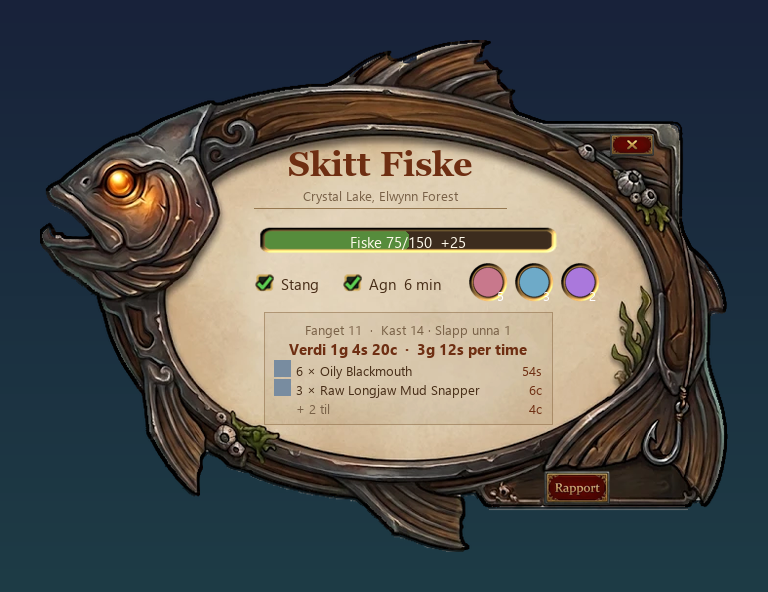
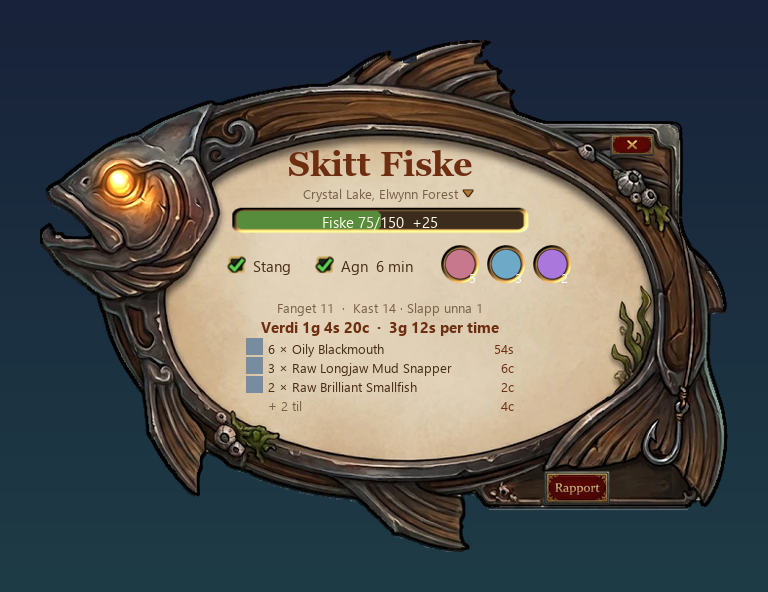
Eye glow centred on the eye, skill bar replaces divider, no box, all centred under title; zone dropdown with fish caught here

Changed region(s): [[0.2812, 0.3041, 0.7812, 0.6993], [0.0938, 0.2432, 0.2188, 0.3649]]

diff --git a/tools/render_media.py b/tools/render_media.py
@@ -17,12 +17,13 @@ SS = 2
 # Pergamentet i rammen er en oval: x 295–778, y 97–418 (tools/cut_frame.py). Treplata nede til høyre: x 605–800, y 433–462.
 LAYOUT = {
     "crop": (168, 856),
-    "title": 104, "zone": 146, "divider": 168,
-    "bar": (386, 186, 300, 28),
-    "line2": 232, "pole": 382, "lure": 470,
-    "rings": (596, 222, 40, 46),
-    "box": (392, 272, 288, 112),
-    "summary": 280, "value": 298, "rows": 320, "row_step": 19,
+    "title": 104, "zone": 144,
+    "bar": (358, 166, 300, 28),
+    "line2": 214, "pole": 354, "lure": 442,
+    "rings": (568, 204, 40, 46),
+    "list": (364, 288),
+    "summary": 258, "value": 276, "rows": 298, "row_step": 19,
+    "eye": (248, 141, 84),
     "report": (672, 431, 66, 34),
     "close": (738, 94, 44, 22),
 }
@@ -186,6 +187,16 @@ def font(names, size):
     return ImageFont.load_default()
 
 
+def render_arrow():
+    """Liten gullpil ned (nedtrekket fra området)."""
+    s = 32 * SS
+    m = arr(mask_img(s, s, lambda d: d.polygon(S([(6, 10), (26, 10), (16, 23)]), fill=255)))
+    out = np.zeros((s, s, 4), np.float32)
+    compose(out, np.zeros((s, s, 3), np.float32) + (60, 36, 16), np.clip(dilate(m, 2 * SS) - m, 0, 1))
+    compose(out, np.zeros((s, s, 3), np.float32) + (176, 120, 50), m)
+    save(out, "arrow_down.tga", (32, 32))
+
+
 def render_glow():
     """Myk, oransje glød til fiskeøyet (legges over med ADD i spillet): hvit kjerne, oransje ut mot kanten."""
     s = 128
@@ -233,7 +244,18 @@ def preview():
 
     ctext(508, L["title"], "Skitt Fiske", title, HEAD)
     ctext(508, L["zone"], "Crystal Lake, Elwynn Forest", small, (120, 96, 70))
-    d.line([P(382, L["divider"]), P(634, L["divider"])], fill=(150, 120, 80), width=1)
+    ex, ey, es = L["eye"]
+    glow = Image.open(os.path.join(OUT, "eye_glow.tga")).convert("RGBA").resize((es, es))
+    gl = Image.new("RGBA", img.size, (0, 0, 0, 0))
+    gl.alpha_composite(glow, tuple(int(v) for v in P(ex - es / 2, ey - es / 2)))
+    base = np.asarray(img).astype(np.float32)
+    add = np.asarray(gl).astype(np.float32)
+    base[..., :3] = np.clip(base[..., :3] + add[..., :3] * add[..., 3:] / 255.0, 0, 255)
+    img = Image.fromarray(base.astype(np.uint8), "RGBA")
+    d = ImageDraw.Draw(img)
+    aw = Image.open(os.path.join(OUT, "arrow_down.tga")).convert("RGBA").resize((14, 14))
+    zw = d.textlength("Crystal Lake, Elwynn Forest", font=small)
+    img.alpha_composite(aw, tuple(int(v) for v in P(508 + zw / 2 + 4, L["zone"] + 2)))
     bx, by, bw, bh = L["bar"]
     x, y = P(bx, by)
     d.rounded_rectangle([x + 4, y + 4, x + bw - 4, y + bh - 4], radius=6, fill=(60, 44, 30))
@@ -251,18 +273,14 @@ def preview():
         d.ellipse([x + 5, y + 5, x + rs - 5, y + rs - 5], fill=colr)
         img.alpha_composite(ring.resize((rs, rs)), (int(x), int(y)))
         d.text((x + rs - 11, y + rs - 16), str((5, 3, 2)[i]), font=small, fill=(255, 255, 255))
-    x0, y0, w, h = L["box"]
-    a, b = P(x0, y0), P(x0 + w, y0 + h)
-    ov = Image.new("RGBA", img.size, (0, 0, 0, 0))
-    ImageDraw.Draw(ov).rectangle([a, b], fill=(115, 82, 46, 20), outline=(140, 107, 69, 150))
-    img.alpha_composite(ov)
-    ctext(536, L["summary"], "Fanget 11  ·  Kast 14 · Slapp unna 1", small, (120, 96, 70))
-    ctext(536, L["value"], "Verdi 1g 4s 20c  ·  3g 12s per time", bold, HEAD)
-    for i, (t, v) in enumerate((("6 × Oily Blackmouth", "54s"), ("3 × Raw Longjaw Mud Snapper", "6c"), ("+ 2 til", "4c"))):
+    x0, w = L["list"]
+    ctext(508, L["summary"], "Fanget 11  ·  Kast 14 · Slapp unna 1", small, (120, 96, 70))
+    ctext(508, L["value"], "Verdi 1g 4s 20c  ·  3g 12s per time", bold, HEAD)
+    for i, (t, v) in enumerate((("6 × Oily Blackmouth", "54s"), ("3 × Raw Longjaw Mud Snapper", "6c"), ("2 × Raw Brilliant Smallfish", "2c"), ("+ 2 til", "4c"))):
         y = L["rows"] + i * L["row_step"]
-        if i < 2:
+        if i < 3:
             d.rectangle([P(x0 + 10, y), (P(x0 + 10, y)[0] + 16, P(x0 + 10, y)[1] + 16)], fill=(120, 140, 160))
-        d.text(P(x0 + 32, y + 1), t, font=small, fill=INK if i < 2 else (120, 96, 70))
+        d.text(P(x0 + 32, y + 1), t, font=small, fill=INK if i < 3 else (120, 96, 70))
         vw = d.textlength(v, font=small)
         d.text((P(x0 + w - 10, y)[0] - vw, P(x0, y + 1)[1]), v, font=small, fill=HEAD)
     x, y, w, h = L["report"]
@@ -283,6 +301,7 @@ if __name__ == "__main__":
     render_bar()
     render_panel()
     render_glow()
+    render_arrow()
     for old in ("plaque.tga", "button.tga"):
         if os.path.exists(os.path.join(OUT, old)):
             os.remove(os.path.join(OUT, old))
